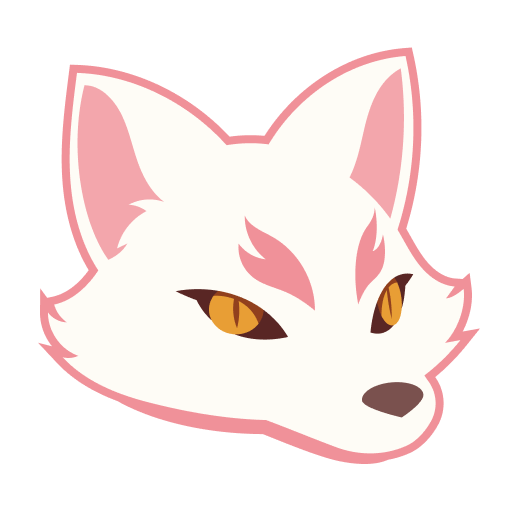
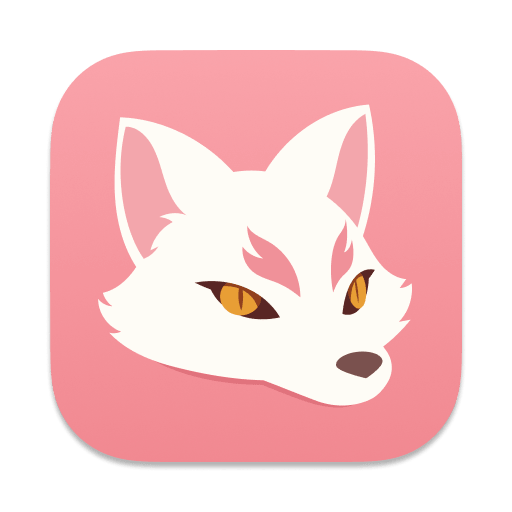
图片更新

diff --git a/src/gui/about.py b/src/gui/about.py
@@ -24,7 +24,7 @@ class AboutWindow(object):
 
         self.logo = QLabel()
         self.logo.setFixedSize(100, 100)
-        self.logo.setPixmap(QPixmap(getResource("image/icon_mac.png")))
+        self.logo.setPixmap(QPixmap(getResource("image/icon.png")))
         self.logo.setScaledContents(True)
 
         self.logoLayout = QHBoxLayout()
